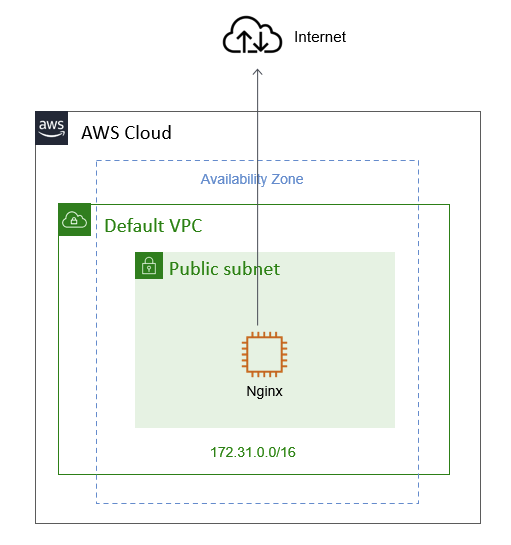
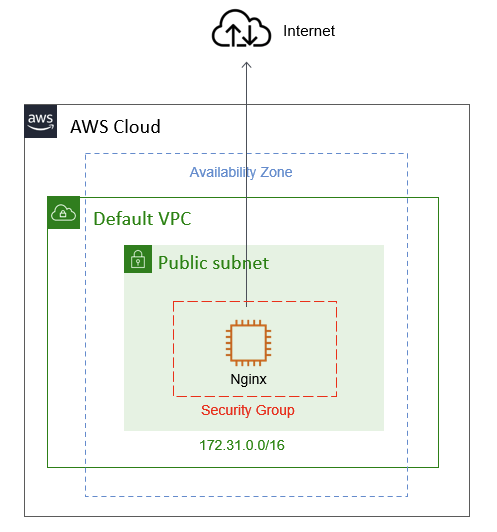
update day1 archi

diff --git a/01-aws-ec2/README.md b/01-aws-ec2/README.md
@@ -60,7 +60,16 @@ https://docs.aws.amazon.com/powershell/latest/userguide/pstools-appendix-sign-up
 
 ### c. Add AWS services
 
-#### 1. Add security group 
+#### 1. Add VPC module
+
+```terraform
+#This uses the default VPC.  It WILL NOT delete it on destroy.
+resource "aws_default_vpc" "default" {
+
+}
+```
+
+#### 2. Add security group 
 
 ```terraform
 # To allow http request to EC2 instance
@@ -84,7 +93,7 @@ resource "aws_security_group" "nginx-sg" {
 }
 ```
 
-#### 2. Add a EC2 instance
+#### 3. Add a EC2 instance
 
 ```terraform
 resource "aws_instance" "nginx" {
